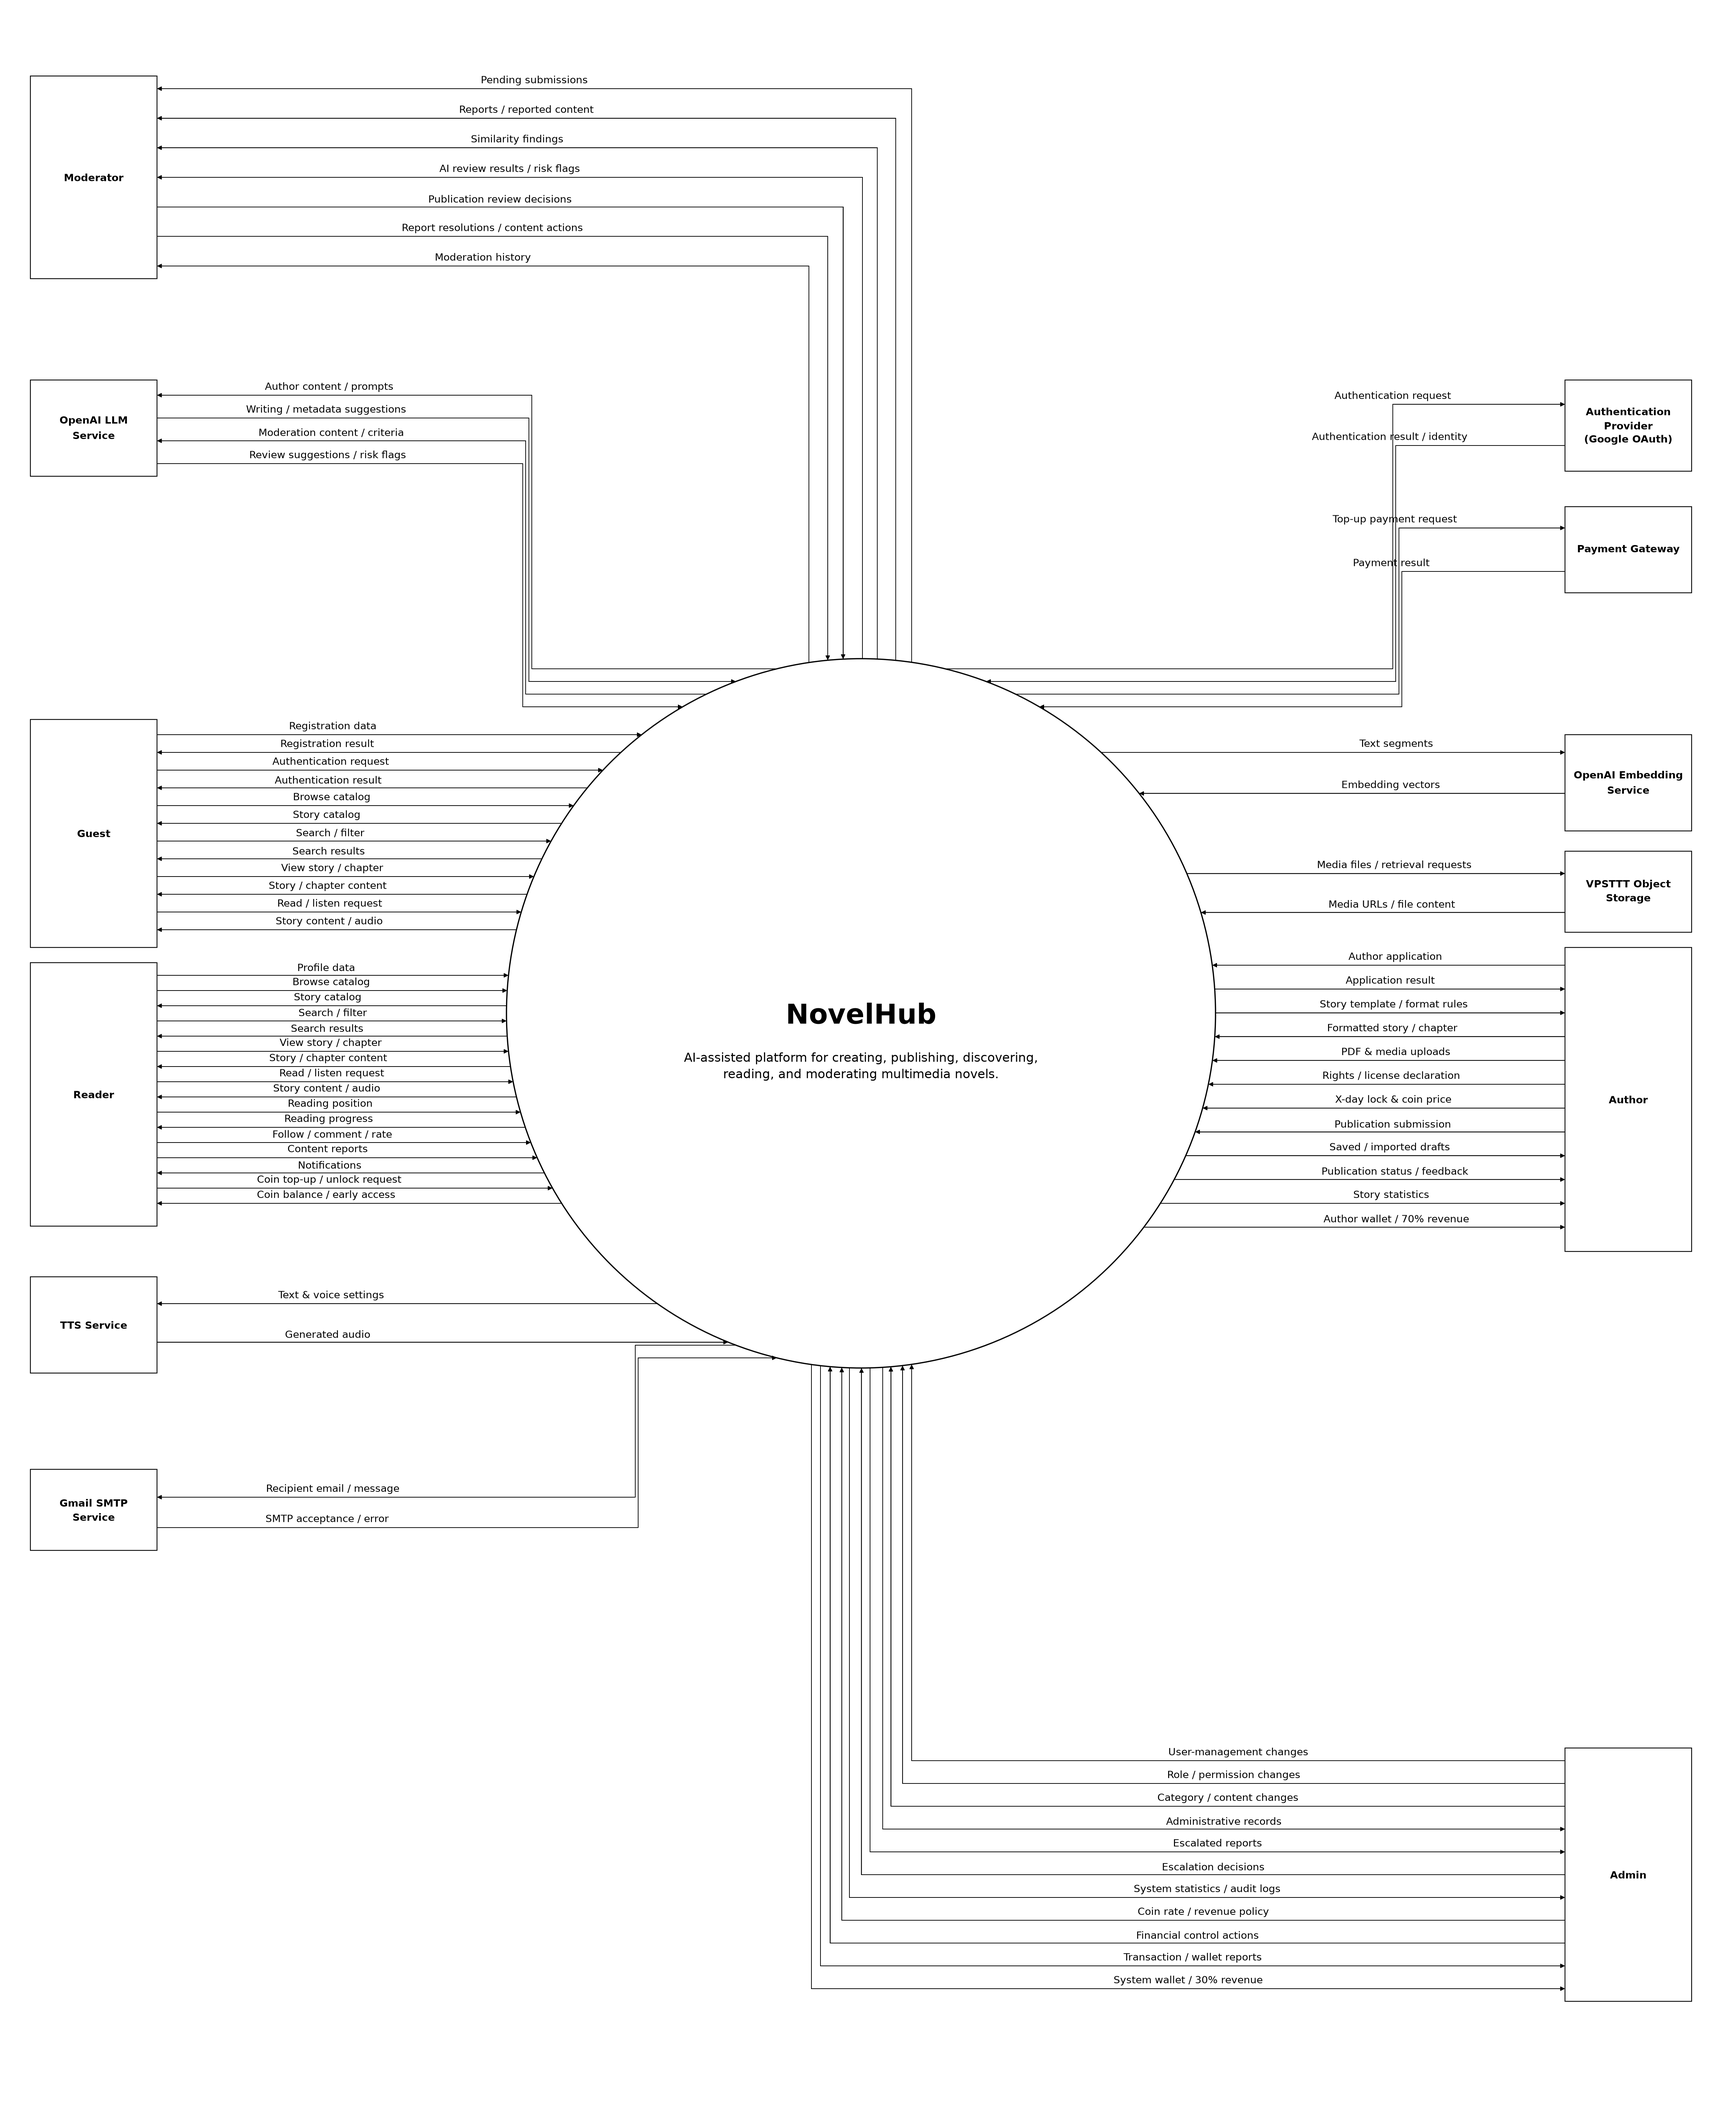
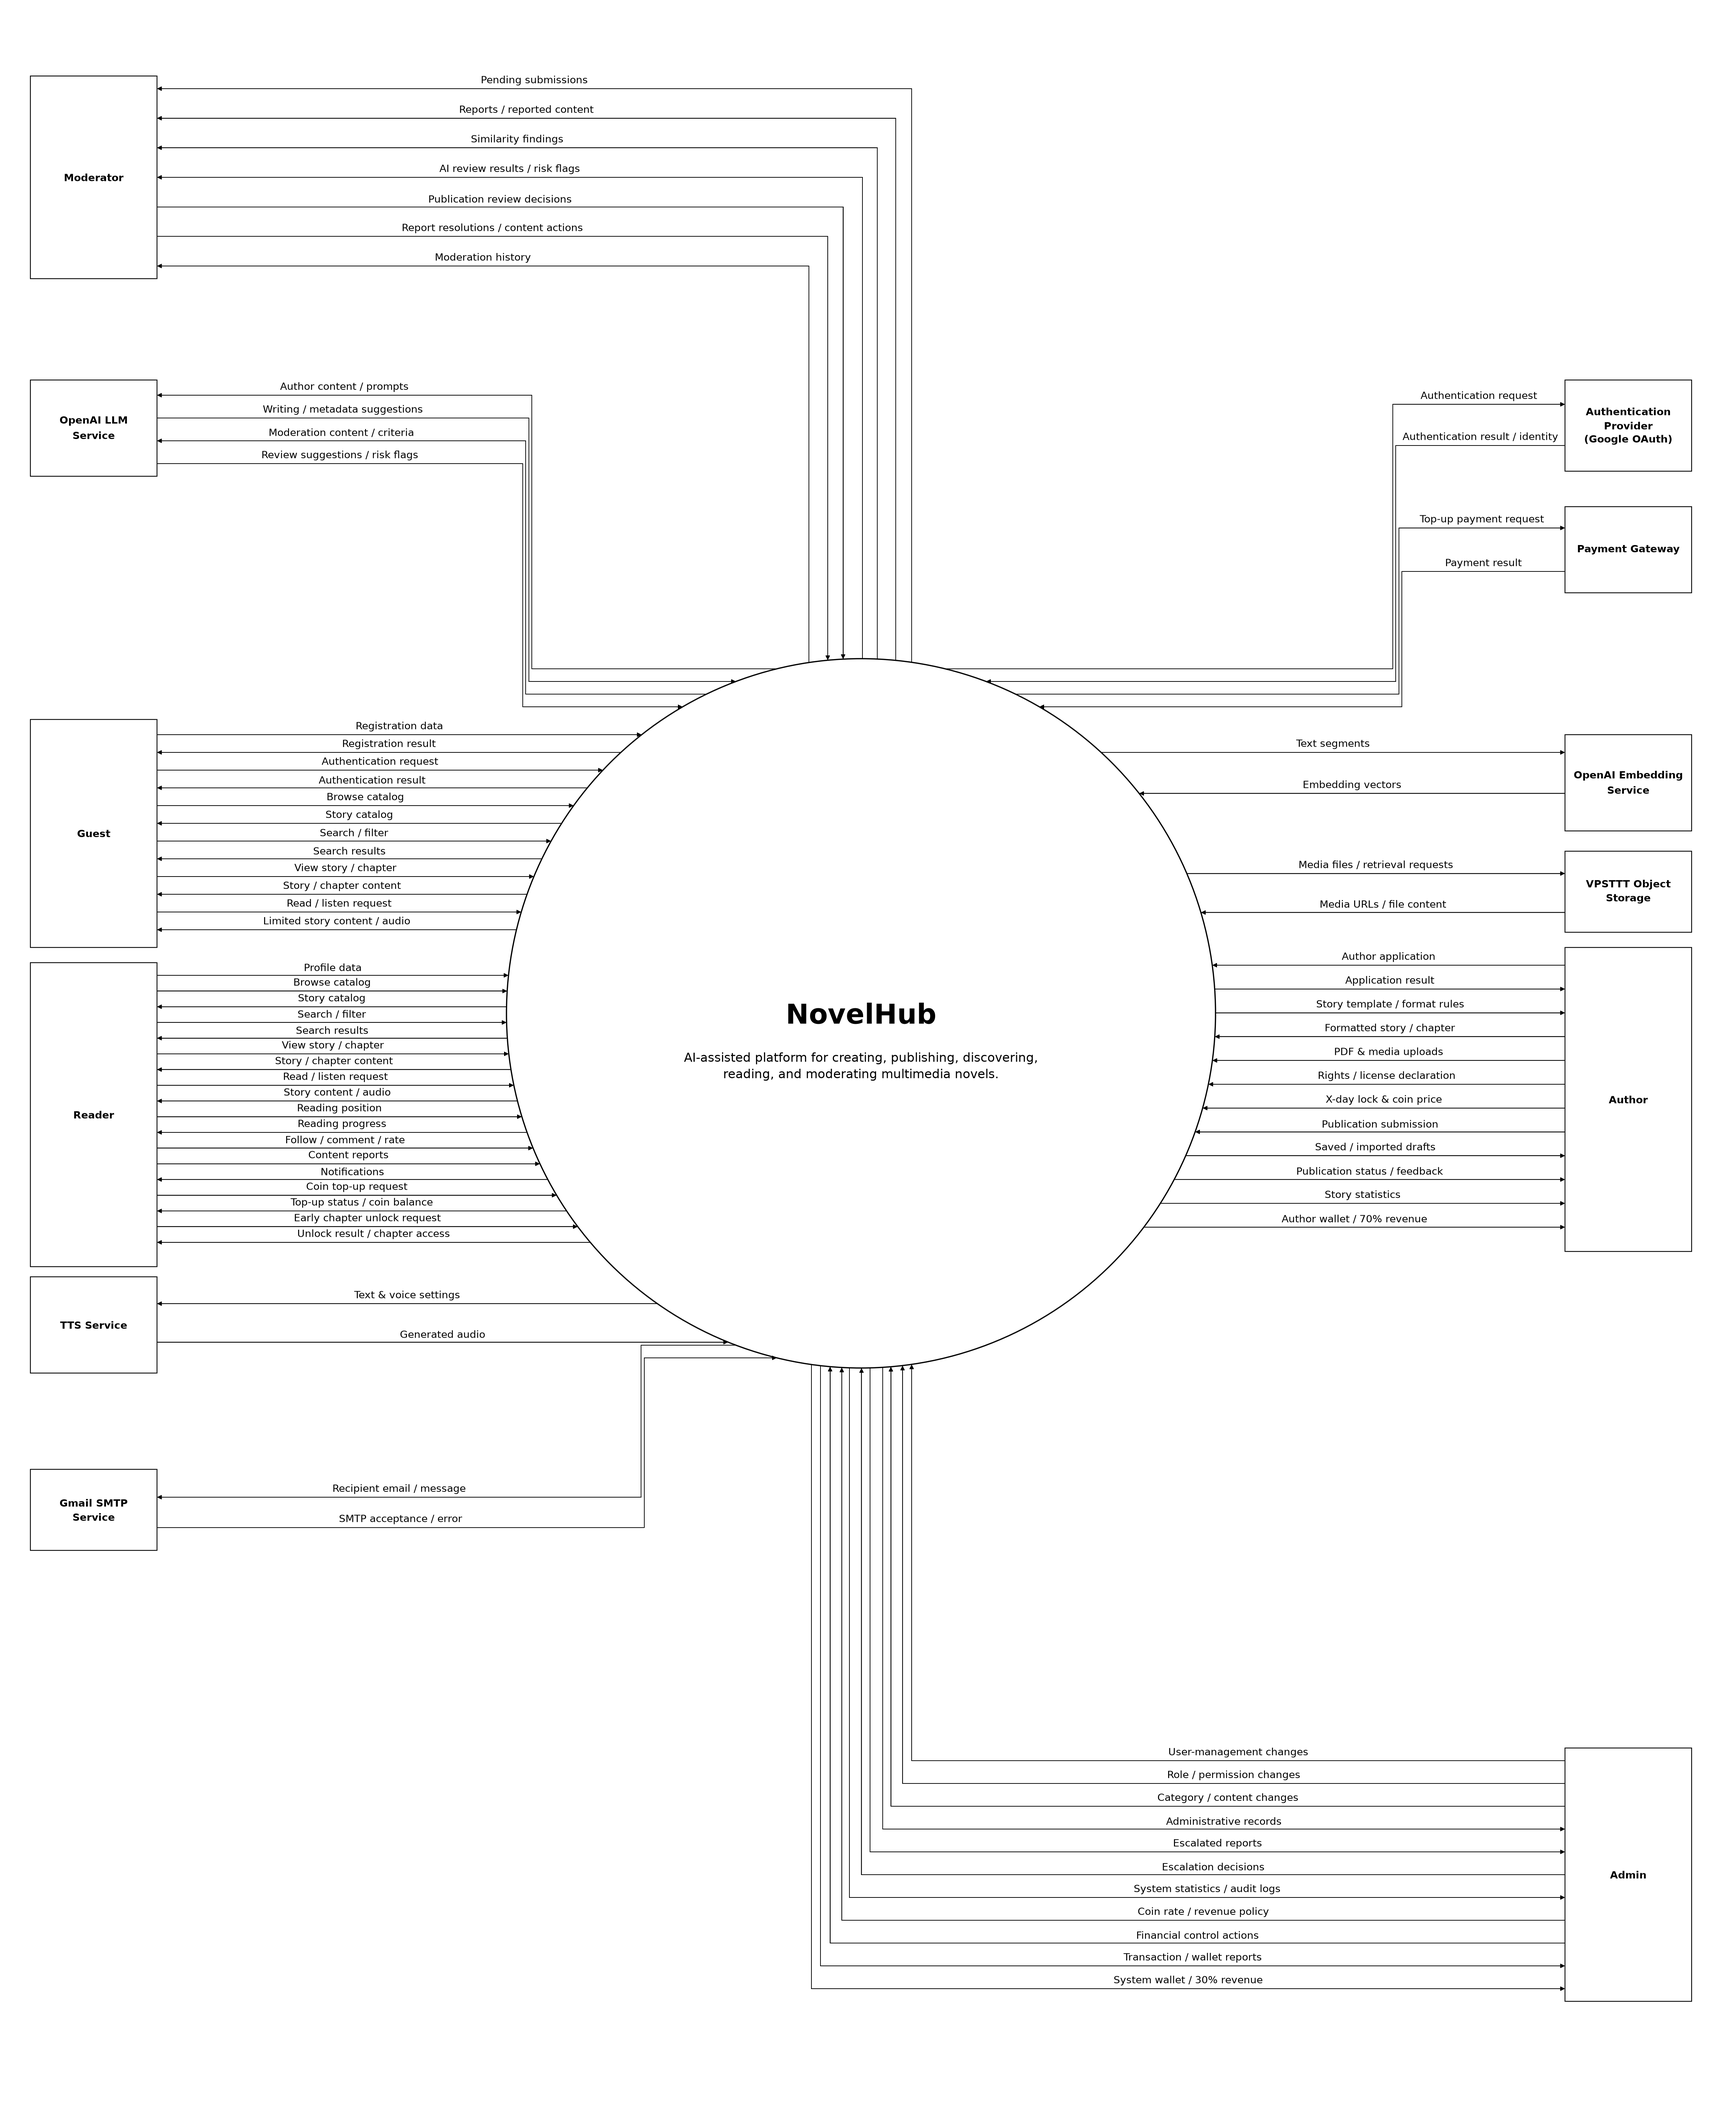
fix(diagram): clarify guest access and coin flows

diff --git a/gen_context.py b/gen_context.py
@@ -19,14 +19,15 @@ E={
 ('in','Read / listen request'),('out','Story content / audio'),
 ('in','Reading position'),('out','Reading progress'),
 ('in','Follow / comment / rate'),('in','Content reports'),('out','Notifications'),
-('in','Coin top-up / unlock request'),('out','Coin balance / early access')]),
+('in','Coin top-up request'),('out','Top-up status / coin balance'),
+('in','Early chapter unlock request'),('out','Unlock result / chapter access')]),
 'guest':('Guest','actor',[
 ('in','Registration data'),('out','Registration result'),
 ('in','Authentication request'),('out','Authentication result'),
 ('in','Browse catalog'),('out','Story catalog'),
 ('in','Search / filter'),('out','Search results'),
 ('in','View story / chapter'),('out','Story / chapter content'),
-('in','Read / listen request'),('out','Story content / audio')]),
+('in','Read / listen request'),('out','Limited story content / audio')]),
 'author':('Author','actor',[
 ('in','Author application'),('out','Application result'),
 ('out','Story template / format rules'),('in','Formatted story / chapter'),
@@ -61,12 +62,12 @@ E={
 ('out','Authentication request'),('in','Authentication result / identity')]),
 'payment':('Payment Gateway','external',[
 ('out','Top-up payment request'),('in','Payment result')])}
-assert sum(len(v[2]) for v in E.values()) == 74
+assert sum(len(v[2]) for v in E.values()) == 76
 boxes={
  'oauth':(3090,750,250,180),
  'payment':(3090,1000,250,170),
  'guest':(60,1420,250,450),
- 'reader':(60,1900,250,520),
+ 'reader':(60,1900,250,600),
  'ai':(60,750,250,190),
  'tts':(60,2520,250,190),
  'embedding':(3090,1450,250,190),
@@ -79,7 +80,7 @@ boxes={
 # Flow ports are evenly spaced inside each entity box.
 port_offsets={
  'guest':[30,65,100,135,170,205,240,275,310,345,380,415],
- 'reader':[25,55,85,115,145,175,205,235,265,295,325,355,385,415,445,475],
+ 'reader':[25,56,87,118,149,180,211,242,273,304,335,366,397,428,459,490,521,552],
  'author':[35,82,129,176,223,270,317,364,411,458,505,552],
  'oauth':[48,129], 'payment':[42,128],
  'embedding':[35,116], 'storage':[44,121],
@@ -121,8 +122,9 @@ for names,side in [(['ai','guest','reader','tts','email'],'L'),(['oauth','paymen
    else:
     bend=1050-6*i if f['ey']<ny else 1050+6*i
    f['points']=[start,(bend,f['ey']),(bend,ny),end]
-  f['lx']=(650 if side=='L' else 2750)+MICRO_X[i%len(MICRO_X)]
-  f['ly']=f['ey']-16+MICRO_Y[i%len(MICRO_Y)];f['lw']=660;f['lh']=32
+  routed=abs(f['ey']-ny)>=1
+  f['lx']=((start[0]+bend)/2 if routed else (start[0]+end[0])/2)
+  f['ly']=f['ey']-16;f['lw']=660;f['lh']=32
  flows.extend(group)
 # Upper/lower connections: vertical from the circle, one 90-degree bend,
 # then a labeled horizontal segment to a side-positioned actor.
